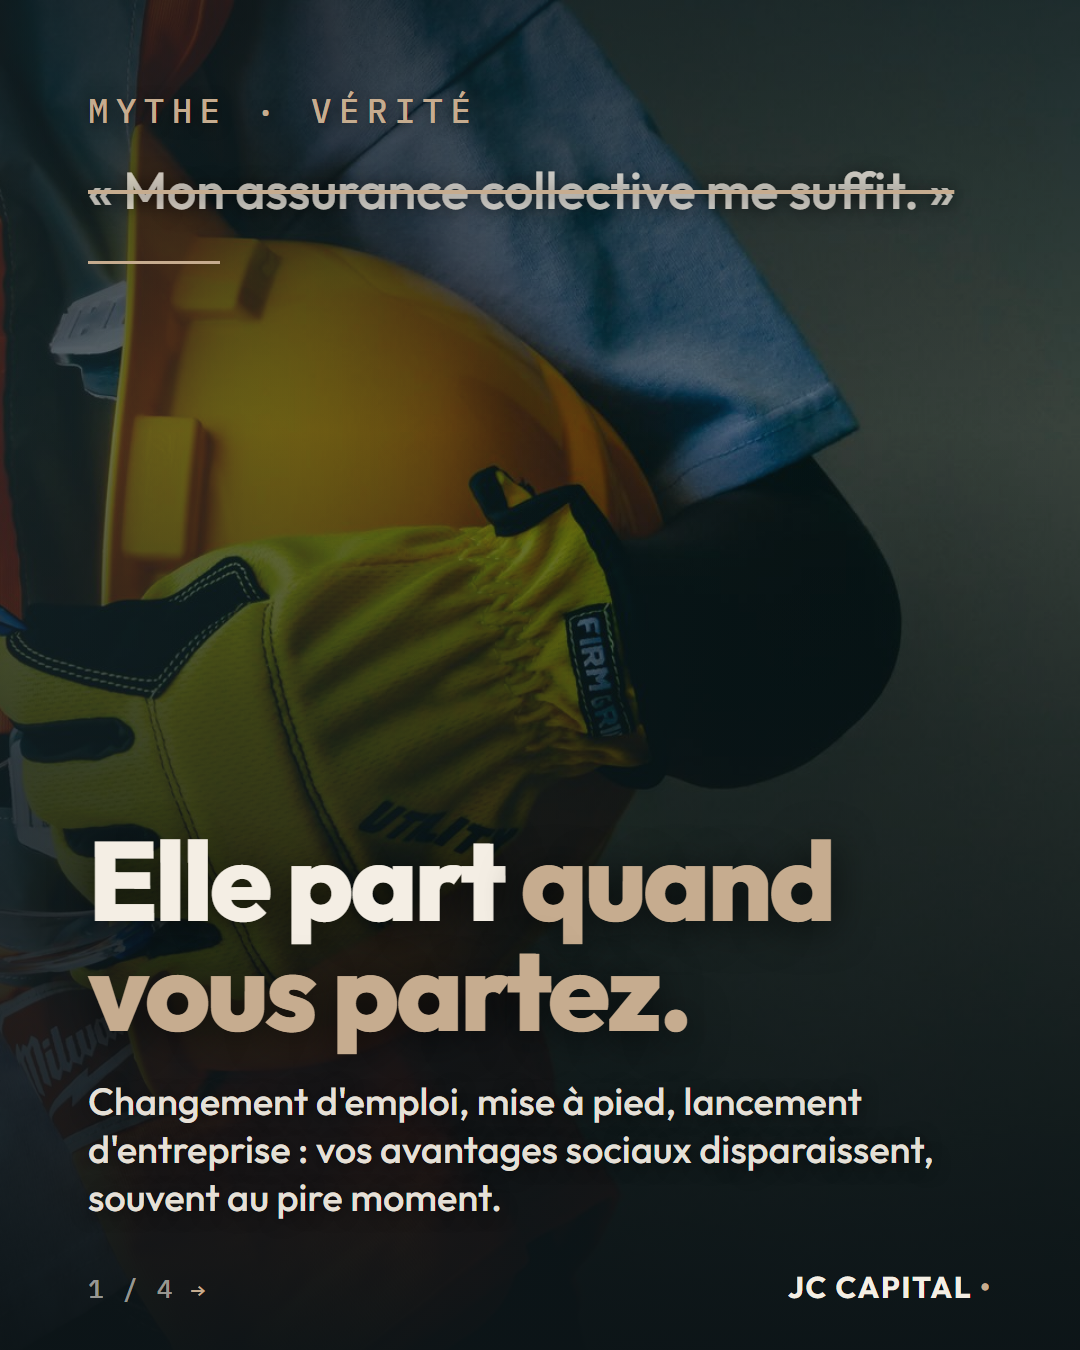
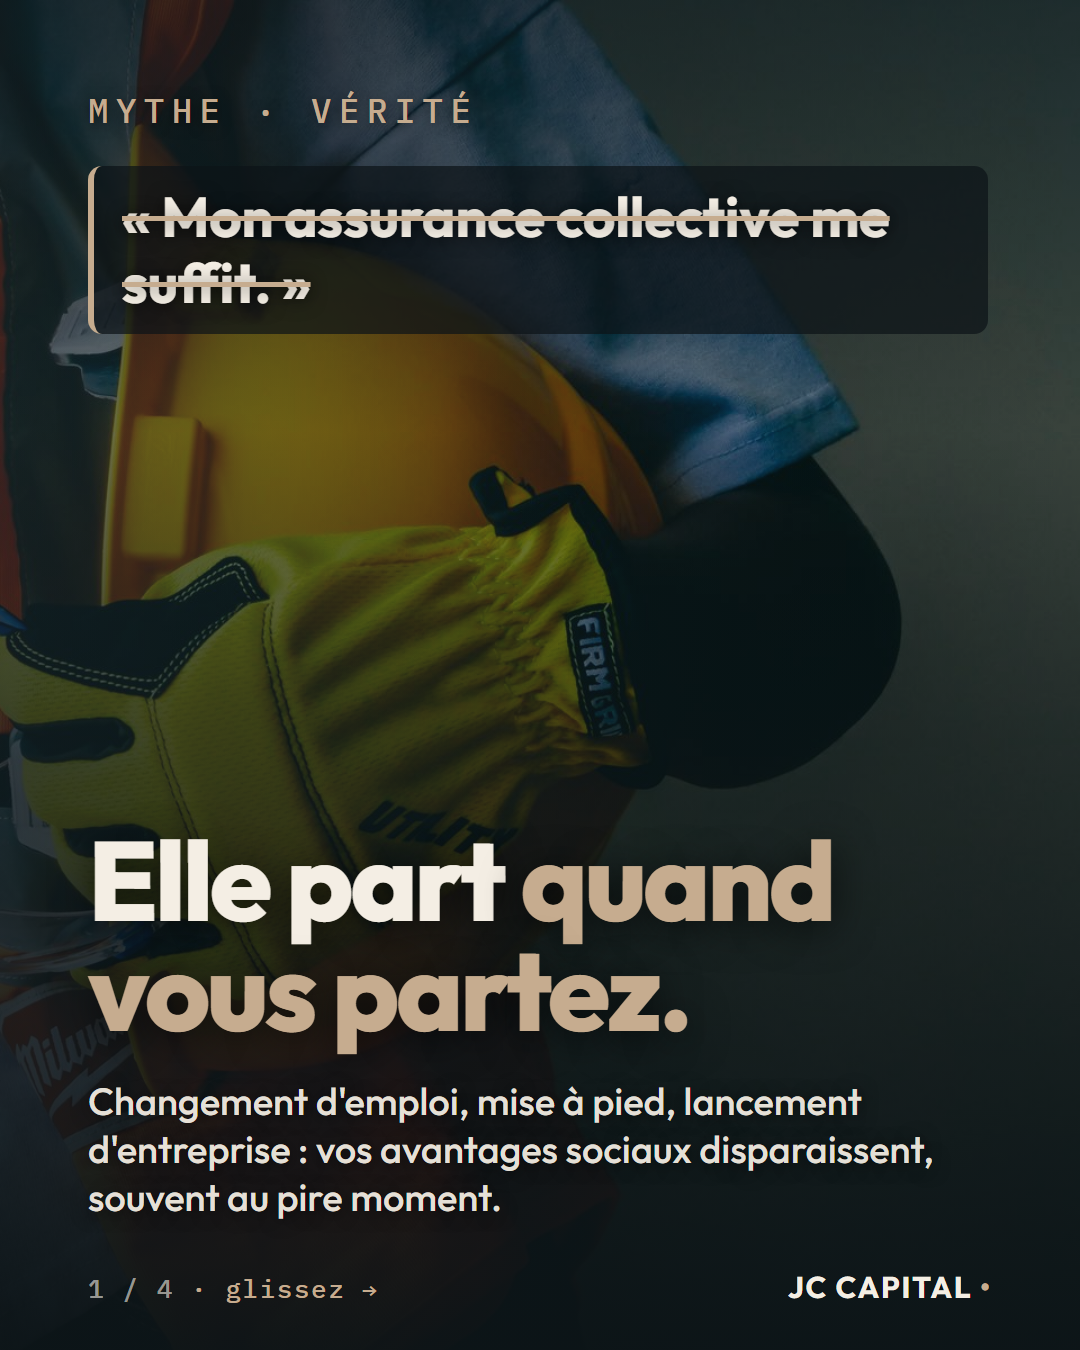
Carrousel v3 : mythe barré lisible dans un encadré, trait doré retiré sous le mythe, repère « glissez »

Changed region(s): [[0.0611, 0.1244, 0.9167, 0.2489], [0.2139, 0.9333, 0.3056, 0.9644]]

diff --git a/marketing/carrousels/2026-11-11-mythe-employeur-v3.js b/marketing/carrousels/2026-11-11-mythe-employeur-v3.js
@@ -19,7 +19,8 @@ const css = (p) => `
   .wrap { position: absolute; inset: 0; padding: 88px 88px 128px; display: flex; flex-direction: column; }
   .eyebrow { font-family: 'IBM Plex Mono', monospace; font-weight: 500; font-size: 34px; letter-spacing: .22em; text-transform: uppercase; color: #C6AC8F; text-shadow: 0 2px 14px rgba(0,0,0,.55); }
   .small { margin-top: 28px; font-size: 52px; font-weight: 500; color: rgba(244,238,228,.92); line-height: 1.18; max-width: 900px; text-shadow: 0 2px 18px rgba(0,0,0,.6); }
-  .small.strike { text-decoration: line-through; text-decoration-color: #C6AC8F; text-decoration-thickness: 4px; color: rgba(244,238,228,.8); }
+  .small.strike { display: inline-block; align-self: flex-start; margin-top: 34px; padding: 18px 28px; border-radius: 14px; background: rgba(12,20,23,.72); border-left: 6px solid #C6AC8F;
+                  font-size: 56px; font-weight: 700; color: #F4EEE4; text-decoration: line-through; text-decoration-color: #C6AC8F; text-decoration-thickness: 5px; }
   .rule { width: 132px; height: 3px; background: #C6AC8F; margin-top: 40px; }
   h1 { margin-top: auto; font-weight: 800; font-size: ${p.h1Size || 104}px; line-height: .98; letter-spacing: -.03em; text-wrap: balance; text-shadow: 0 6px 40px rgba(0,0,0,.65); }
   .sub { margin-top: 34px; font-size: 38px; font-weight: 500; line-height: 1.26; max-width: 880px; color: rgba(244,238,228,.95); text-shadow: 0 2px 18px rgba(0,0,0,.6); }
@@ -38,14 +39,14 @@ const page = (p, i, n) => `<!doctype html><html lang="fr"><head><meta charset="u
 <div class="photo"></div><div class="veil"></div><div class="wrap">
   <div class="eyebrow">${p.eyebrow}</div>
   ${p.small ? `<div class="small${p.strike ? ' strike' : ''}">${p.small}</div>` : ''}
-  <div class="rule"></div>
+  ${p.small ? '' : '<div class="rule"></div>'}
   <h1>${p.h1}</h1>
   ${p.items ? `<ul>${p.items.map((it, k) => `<li><b>${String(k + 1).padStart(2, '0')}</b><span>${it}</span></li>`).join('')}</ul>` : ''}
   ${p.sub ? `<div class="sub">${p.sub}</div>` : ''}
   ${p.cta ? `<div class="cta">${p.cta}</div>` : ''}
   ${p.note ? `<div class="note">${p.note}</div>` : ''}
 </div>
-<div class="foot"><span>${i + 1} / ${n}${i + 1 < n ? ' <span class="swipe">→</span>' : ''}</span><span class="brand">JC CAPITAL <i>•</i></span></div>
+<div class="foot"><span>${i + 1} / ${n}${i + 1 < n ? ' <span class="swipe">· glissez →</span>' : ''}</span><span class="brand">JC CAPITAL <i>•</i></span></div>
 </body></html>`;
 
 const id = '2026-11-11-mythe-employeur-v3';
